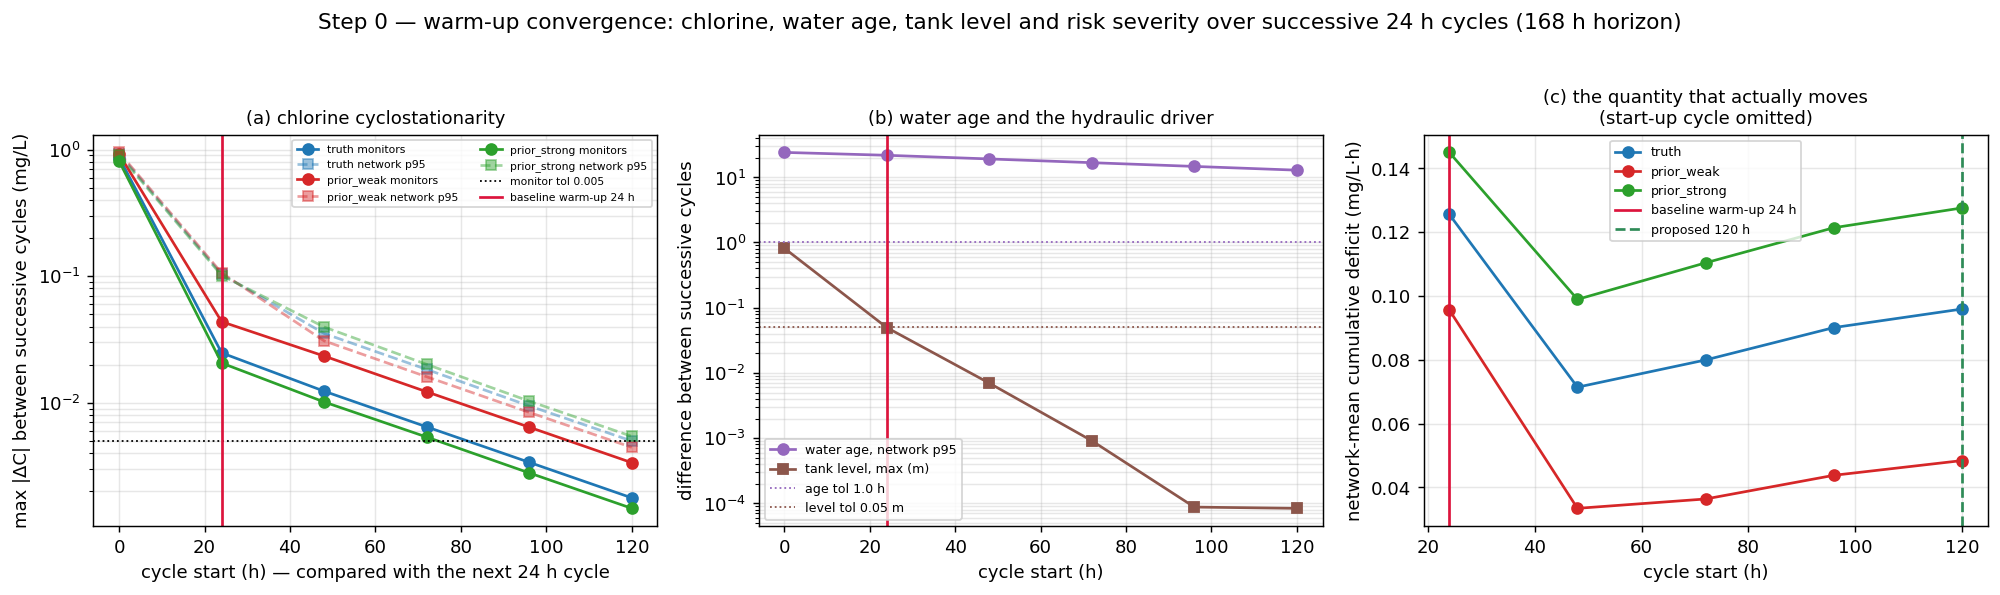
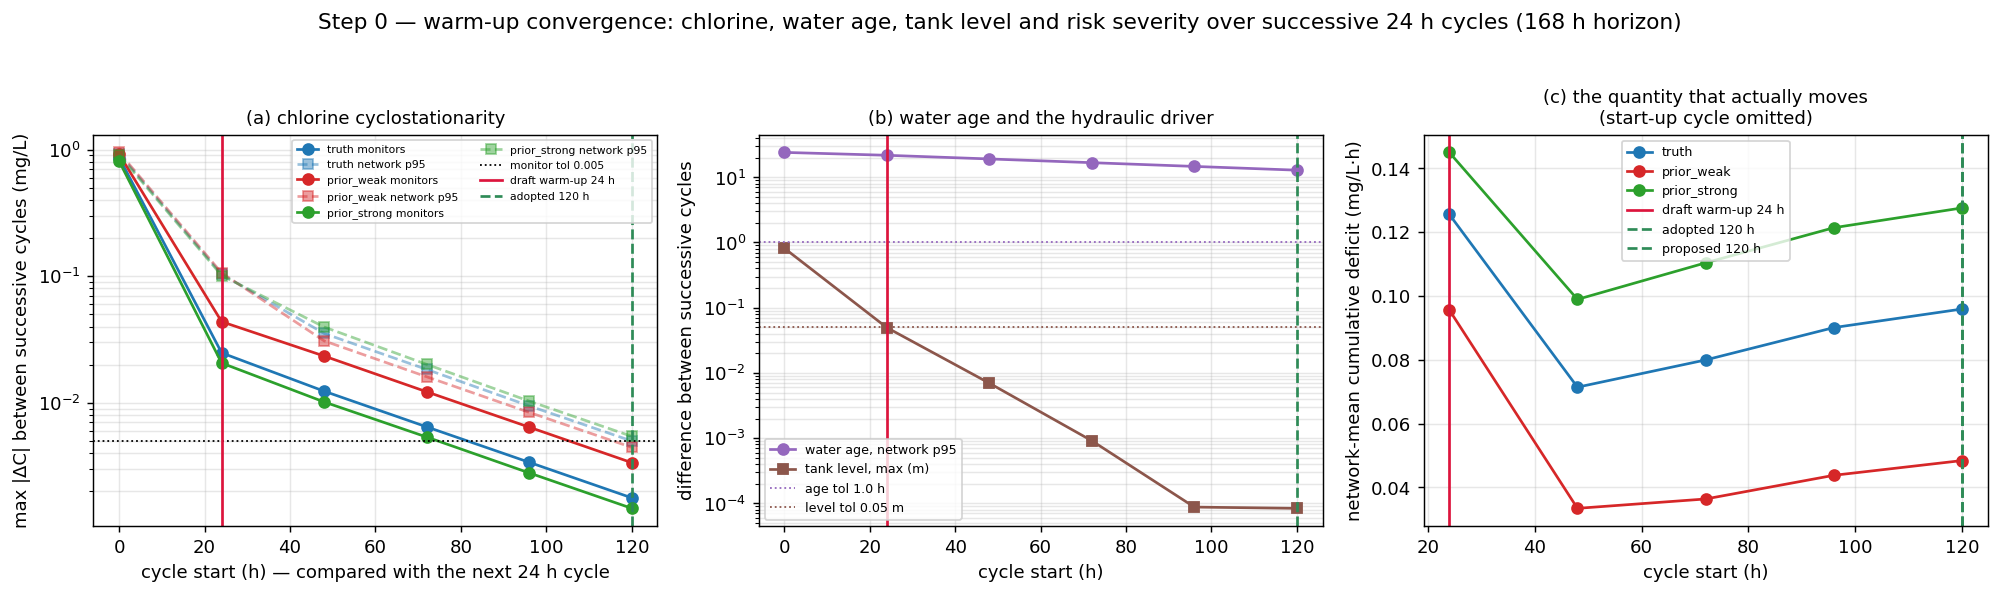
fix(net3): remove the superseded 72 h wording from Step 10 and stop Step 0 describing its own answer
Two configuration-era errors. Neither is catchable by a value check, because in
both cases the numbers are real — they just describe a configuration the project
no longer runs.

Step 10, finding 4, was still written for the draft's 72 h / 24 h horizon: "in
this 72-h run", "age at t = 24 h", "keeps rising to t = 72", and water ages of
44.9 / 40.2 / 53.9 / 45.3 / 36.0 / 34.6 h. All are draft-era values. The artifact
now gives node 131 a mean age of 70.2 h and node 243 is no longer in the top ten,
so the paragraph contradicted the table printed directly above it. Rewritten
around the actual configuration: water age is horizon-dependent within the 168 h
simulation, the ages quoted are means over the fixed 120-168 h assessment window
and must not be read as steady state, and the rank association is the result
while absolute magnitudes stay horizon-sensitive. No absolute age is quoted in
the prose any more — it is window-dependent, and the table already carries it.

step10_risk_metrics.py carried the same stale arithmetic in its comments —
"(73, 92)", "0..72", "24..72", "final hour (t=72)" — while executing on
B.DURATION_H = 168 and B.WARMUP_H = 120. Corrected, with a note that the window
is a choice and not an equilibrium.

Found while fixing the above: step0_warmup_convergence.py recorded
"baseline_warmup_h": B.WARMUP_H, i.e. it read the live config to describe the
baseline it was testing. That was correct when WARMUP_H was 24, but the step's own
[…]

Changed region(s): [[0.124, 0.242, 0.341, 0.3933], [0.806, 0.242, 0.899, 0.4538]]

diff --git a/Net3/step0_warmup_convergence.py b/Net3/step0_warmup_convergence.py
@@ -1,9 +1,12 @@
 """Step 0: is the 24 h warm-up long enough? Decide it by a pre-declared convergence test.
 
-The baseline discards the first WARMUP_H hours and assesses 24-72 h, but that 24 h was never
-justified. It has to be: the tanks start at an assumed 0.5 mg/L, several high-risk junctions have a
-mean water age of 34-45 h, and the Step 12 paired test already showed the continuous severity
-metrics moving by 10-14% when the warm-up was extended to 120 h.
+This is the step that SET the current configuration, so it is written from the position before that
+decision. The draft's configuration -- now superseded -- was a 72 h run discarding the first 24 h and
+assessing 24-72 h, and that 24 h was never justified. It had to be: the tanks start at an assumed
+0.5 mg/L, several high-risk junctions have mean water ages of tens of hours, and the Step 12 paired
+test already showed the continuous severity metrics moving by 10-14% when the warm-up was extended.
+The answer below is 120 h, which is why wq_common now carries WARMUP_H = 120 and DURATION_H = 168
+and every other step assesses 120-168 h.
 
 Method. Demands and the pump schedule in Net3 are 24 h periodic, so the correct notion of "warmed
 up" is CYCLOSTATIONARY: the field over one diurnal cycle repeats in the next. Each parameter set is
@@ -35,6 +38,12 @@ FIGDIR = os.path.join(HERE, "figures")
 os.makedirs(FIGDIR, exist_ok=True)
 
 HORIZON_H = 168               # the model's ceiling; see the docstring
+# The warm-up this test was posed against. It is HISTORY, not configuration: the draft used 24 h,
+# this test rejected it, and wq_common.WARMUP_H was then raised to the answer. Reading B.WARMUP_H
+# here instead would make the step describe its own conclusion as its premise — after the config was
+# updated the artifact would say "the baseline warm-up is 120 h" and the verdict would compare 120
+# against 120, erasing the question the step exists to answer.
+DRAFT_WARMUP_H = 24
 CYCLE_H = 24                  # demand and pump-schedule period
 N_CYCLES = HORIZON_H // CYCLE_H
 C_MIN = 0.2
@@ -240,10 +249,10 @@ if recommended is None:
     print("residual drift has to be carried as a stated limitation rather than assumed away.")
 else:
     print(f"\nVERDICT: cyclostationary from hour {recommended} -> recommended warm-up "
-          f"{recommended} h (baseline uses {B.WARMUP_H} h).")
-    if recommended > B.WARMUP_H:
-        print(f"The baseline warm-up is too short by {recommended - B.WARMUP_H} h; the cache must "
-              "be rebuilt before the numbers are final.")
+          f"{recommended} h (the draft used {DRAFT_WARMUP_H} h; the project now runs {B.WARMUP_H} h).")
+    if recommended > DRAFT_WARMUP_H:
+        print(f"The draft warm-up was too short by {recommended - DRAFT_WARMUP_H} h, which is why "
+              f"wq_common now carries WARMUP_H = {B.WARMUP_H}.")
 
 # ---- what the calibration configuration should therefore be ----
 CHEM_KEYS = ["monitor_max_dC", "network_p95_dC", "tank_max_dC"]
@@ -286,7 +295,9 @@ report = {
     "tolerances": TOL, "top_k": TOP_K,
     "param_sets": {k: list(v) for k, v in PARAM_SETS.items()},
     "kb_fixed": B.KB_FIXED, "C_MIN": C_MIN,
-    "baseline_warmup_h": B.WARMUP_H,
+    # kept distinct on purpose: the value under test, and the value the project now runs with
+    "draft_warmup_h": DRAFT_WARMUP_H,
+    "current_warmup_h": B.WARMUP_H,
     "recommended_warmup_h": recommended,
     "implied_config": config,
     "per_criterion": per_criterion,
@@ -310,7 +321,8 @@ for name, c in colors.items():
                 alpha=0.45, label=f"{name} network p95")
 ax.axhline(TOL["monitor_max_dC"], color="k", ls=":", lw=1,
            label=f"monitor tol {TOL['monitor_max_dC']}")
-ax.axvline(B.WARMUP_H, color="crimson", lw=1.5, label=f"baseline warm-up {B.WARMUP_H} h")
+ax.axvline(DRAFT_WARMUP_H, color="crimson", lw=1.5, label=f"draft warm-up {DRAFT_WARMUP_H} h")
+ax.axvline(B.WARMUP_H, color="seagreen", lw=1.5, ls="--", label=f"adopted {B.WARMUP_H} h")
 ax.set_xlabel("cycle start (h) — compared with the next 24 h cycle")
 ax.set_ylabel("max |ΔC| between successive cycles (mg/L)")
 ax.set_title("(a) chlorine cyclostationarity", fontsize=10)
@@ -324,7 +336,8 @@ ax.semilogy(starts, [max(r["sets"][n]["tank_max_dLevel"] for n in colors) for r 
             "s-", color="tab:brown", label="tank level, max (m)")
 ax.axhline(TOL["age_p95_dAge"], color="tab:purple", ls=":", lw=1, label="age tol 1.0 h")
 ax.axhline(TOL["tank_max_dLevel"], color="tab:brown", ls=":", lw=1, label="level tol 0.05 m")
-ax.axvline(B.WARMUP_H, color="crimson", lw=1.5)
+ax.axvline(DRAFT_WARMUP_H, color="crimson", lw=1.5)
+ax.axvline(B.WARMUP_H, color="seagreen", lw=1.5, ls="--")
 ax.set_xlabel("cycle start (h)")
 ax.set_ylabel("difference between successive cycles")
 ax.set_title("(b) water age and the hydraulic driver", fontsize=10)
@@ -336,7 +349,8 @@ ax = axes[2]
 for name, c in colors.items():
     ax.plot(starts[1:], [rec["sets"][name]["net_mean_deficit"] for rec in rows[1:]], "o-",
             color=c, label=name)
-ax.axvline(B.WARMUP_H, color="crimson", lw=1.5, label=f"baseline warm-up {B.WARMUP_H} h")
+ax.axvline(DRAFT_WARMUP_H, color="crimson", lw=1.5, label=f"draft warm-up {DRAFT_WARMUP_H} h")
+ax.axvline(B.WARMUP_H, color="seagreen", lw=1.5, ls="--", label=f"adopted {B.WARMUP_H} h")
 if proposed_warmup is not None:
     ax.axvline(proposed_warmup, color="seagreen", lw=1.5, ls="--",
                label=f"proposed {proposed_warmup} h")

diff --git a/Net3/step10_risk_metrics.py b/Net3/step10_risk_metrics.py
@@ -82,12 +82,14 @@ wn.options.time.hydraulic_timestep = B.HYDRAULIC_TIMESTEP_S
 wn.options.time.report_timestep = B.REPORT_TIMESTEP_S
 wn.options.time.quality_timestep = B.QUALITY_TIMESTEP_S
 wn.options.quality.parameter = "AGE"
-age_df = wntr.sim.EpanetSimulator(wn).run_sim().node["quality"][ALL_NODES] / 3600.0   # (73, 92) hours
-age_full = age_df.values                                   # 0..72
-age_post = age_full[B.WARMUP_H:]                           # 24..72 (49 rows)
-mean_age_post = age_post.mean(axis=0)                      # post-warm-up mean (primary)
-mean_age_last24 = age_full[B.DURATION_H - 24:].mean(axis=0)  # last diurnal cycle (48..72)
-final_age = age_full[-1]                                   # steady-ish final hour (t=72)
+age_df = wntr.sim.EpanetSimulator(wn).run_sim().node["quality"][ALL_NODES] / 3600.0   # (169, 92) h
+age_full = age_df.values                        # hourly reporting from 0 to 168 h
+age_post = age_full[B.WARMUP_H:]                # post-warm-up window: 120..168 h, 49 reporting points
+mean_age_post = age_post.mean(axis=0)           # primary definition: mean over the 120-168 h window
+mean_age_last24 = age_full[B.DURATION_H - 24:].mean(axis=0)   # last 24 h interval: 144..168 h
+# NOT a steady-state age: Step 0 shows the age field is still filling at 168 h and would need ~600 h,
+# which the model's 168 h horizon cannot supply. The window is a choice and is recorded as one.
+final_age = age_full[-1]                        # single final reporting hour, t = 168 h
 
 T_A, T_B, T_C = B.WARMUP_H, (B.WARMUP_H + B.DURATION_H) // 2, B.DURATION_H
 print("\nwater-age window diagnostics for the leading nodes:")

diff --git a/Net3/RESULTS_LOG.md b/Net3/RESULTS_LOG.md
@@ -1820,18 +1820,19 @@ Findings:
    worst nodes also have the longest residence times. This is corroboration, **not** validation:
    water age comes from the *same* hydraulic model (not an independent measurement), correlation is
    not causation, and residual chlorine also depends on wall decay, source dosing and tank mixing.
-4. **Water-age magnitudes are window-dependent (not steady state).** In this 72-h run the age field
-  is still filling (age at `t = 24 h` equals the elapsed 24 h for the leading nodes, and keeps rising
-   to `t = 72`), so the *absolute* mean age depends on the averaging window (post-warm-up mean 44.9 /
-   40.2 h for 243/131; last-cycle mean 53.9 / 45.3 h) and differs from the draft's earlier single-
-   window figures (≈ 36.0 / 34.6 h). The **rank** association is the robust, window-insensitive
-   result — hence Spearman, not absolute ages, is reported as the finding. **Step 0 settles what
-   this parenthetical used to leave open: a longer run does not fix it.** The cycle-to-cycle change
-   in the age field is still 12.8 h at a 120–144 h warm-up and decays by only ~12% per cycle, so the
-   crossing extrapolates to ≈600 h — far beyond the 168 h the model permits. Absolute water ages in
-   Net3 are therefore horizon-dependent by construction, not merely under-converged here, and must
-   never be quoted as steady-state values. The three window definitions are stored in
-   `step10_risk_metrics.json` under `age_windows` so the choice is always explicit.
+4. **Water-age magnitudes are window-dependent, not steady state.** Water age remains
+   **horizon-dependent within the 168 h simulation**: the field is still filling at the high-age
+   nodes throughout the run. The ages in the table above are means over the fixed **120–168 h**
+   assessment window and **must not be interpreted as steady-state water ages** — the same nodes give
+   different numbers under the last-diurnal-cycle (144–168 h) and final-hour (`t = 168 h`)
+   definitions. All three are stored in `step10_risk_metrics.json` under `age_windows`, so the choice
+   is always explicit rather than implied. **Step 0 settles what this used to leave open: a longer
+   run does not fix it.** The cycle-to-cycle change in the age field is still 12.8 h at a 120–144 h
+   warm-up and decays by only ~12% per cycle, so the crossing extrapolates to ≈600 h — far beyond the
+   168 h the model permits. Absolute water ages in Net3 are therefore horizon-dependent by
+   construction, not merely under-converged here. **The rank association with chlorine risk is the
+   relevant result; the absolute magnitudes remain sensitive to the selected horizon** — which is why
+   Spearman, and not absolute age, is what this step reports as a finding.
 5. **Interpretation, stated carefully.** The dominant decay term (old) is the *most robustly informed*
   coefficient under the expanded realism analyses (Steps 4/7), and water age is reaction-independent;
    so the leading hotspots are governed by residence time and the old-group decay rather than the
